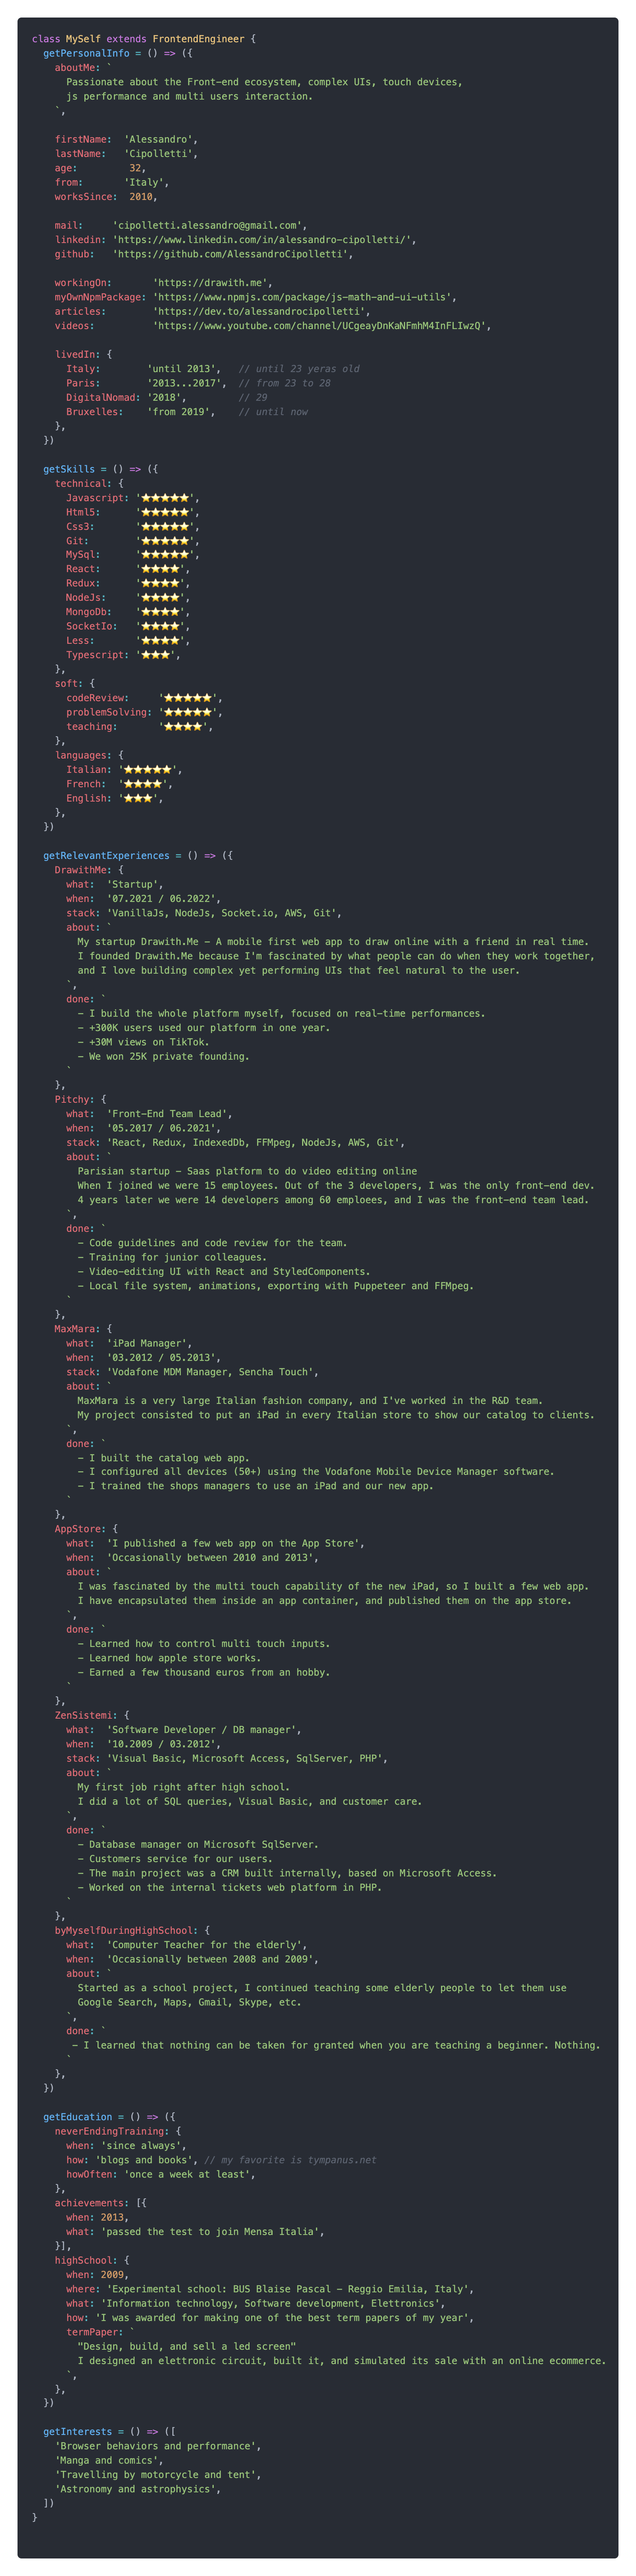
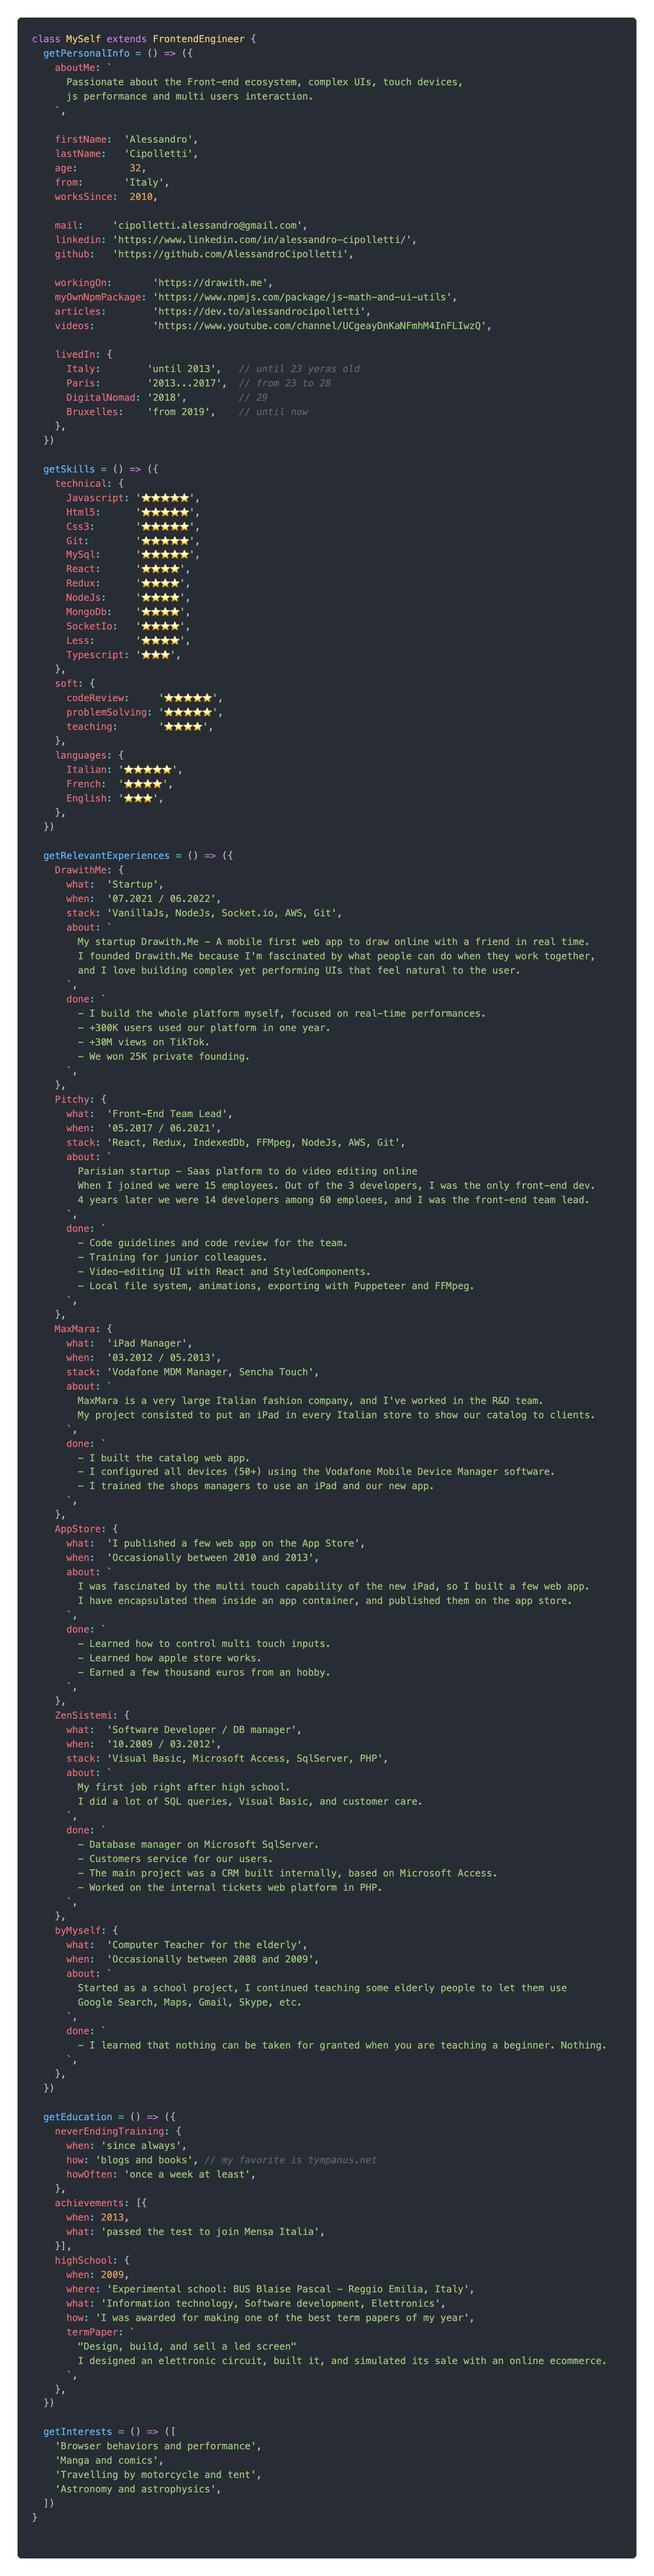
MySelf code - 0.7.4

diff --git a/myself2.js b/myself2.js
@@ -70,7 +70,7 @@ class MySelf extends FrontendEngineer {
         - +300K users used our platform in one year.
         - +30M views on TikTok.
         - We won 25K private founding.
-      `
+      `,
     },
     Pitchy: {
       what:  'Front-End Team Lead',
@@ -86,7 +86,7 @@ class MySelf extends FrontendEngineer {
         - Training for junior colleagues.
         - Video-editing UI with React and StyledComponents.
         - Local file system, animations, exporting with Puppeteer and FFMpeg.
-      `
+      `,
     },
     MaxMara: {
       what:  'iPad Manager',
@@ -100,7 +100,7 @@ class MySelf extends FrontendEngineer {
         - I built the catalog web app.
         - I configured all devices (50+) using the Vodafone Mobile Device Manager software.
         - I trained the shops managers to use an iPad and our new app.
-      `
+      `,
     },
     AppStore: {
       what:  'I published a few web app on the App Store',
@@ -113,7 +113,7 @@ class MySelf extends FrontendEngineer {
         - Learned how to control multi touch inputs.
         - Learned how apple store works.
         - Earned a few thousand euros from an hobby.
-      `
+      `,
     },
     ZenSistemi: {
       what:  'Software Developer / DB manager',
@@ -128,9 +128,9 @@ class MySelf extends FrontendEngineer {
         - Customers service for our users.
         - The main project was a CRM built internally, based on Microsoft Access.
         - Worked on the internal tickets web platform in PHP.
-      `
+      `,
     },
-    byMyselfDuringHighSchool: {
+    byMyself: {
       what:  'Computer Teacher for the elderly',
       when:  'Occasionally between 2008 and 2009',
       about: `
@@ -138,8 +138,8 @@ class MySelf extends FrontendEngineer {
         Google Search, Maps, Gmail, Skype, etc.
       `,
       done: `
-       - I learned that nothing can be taken for granted when you are teaching a beginner. Nothing.
-      `
+        - I learned that nothing can be taken for granted when you are teaching a beginner. Nothing.
+      `,
     },
   })
 
